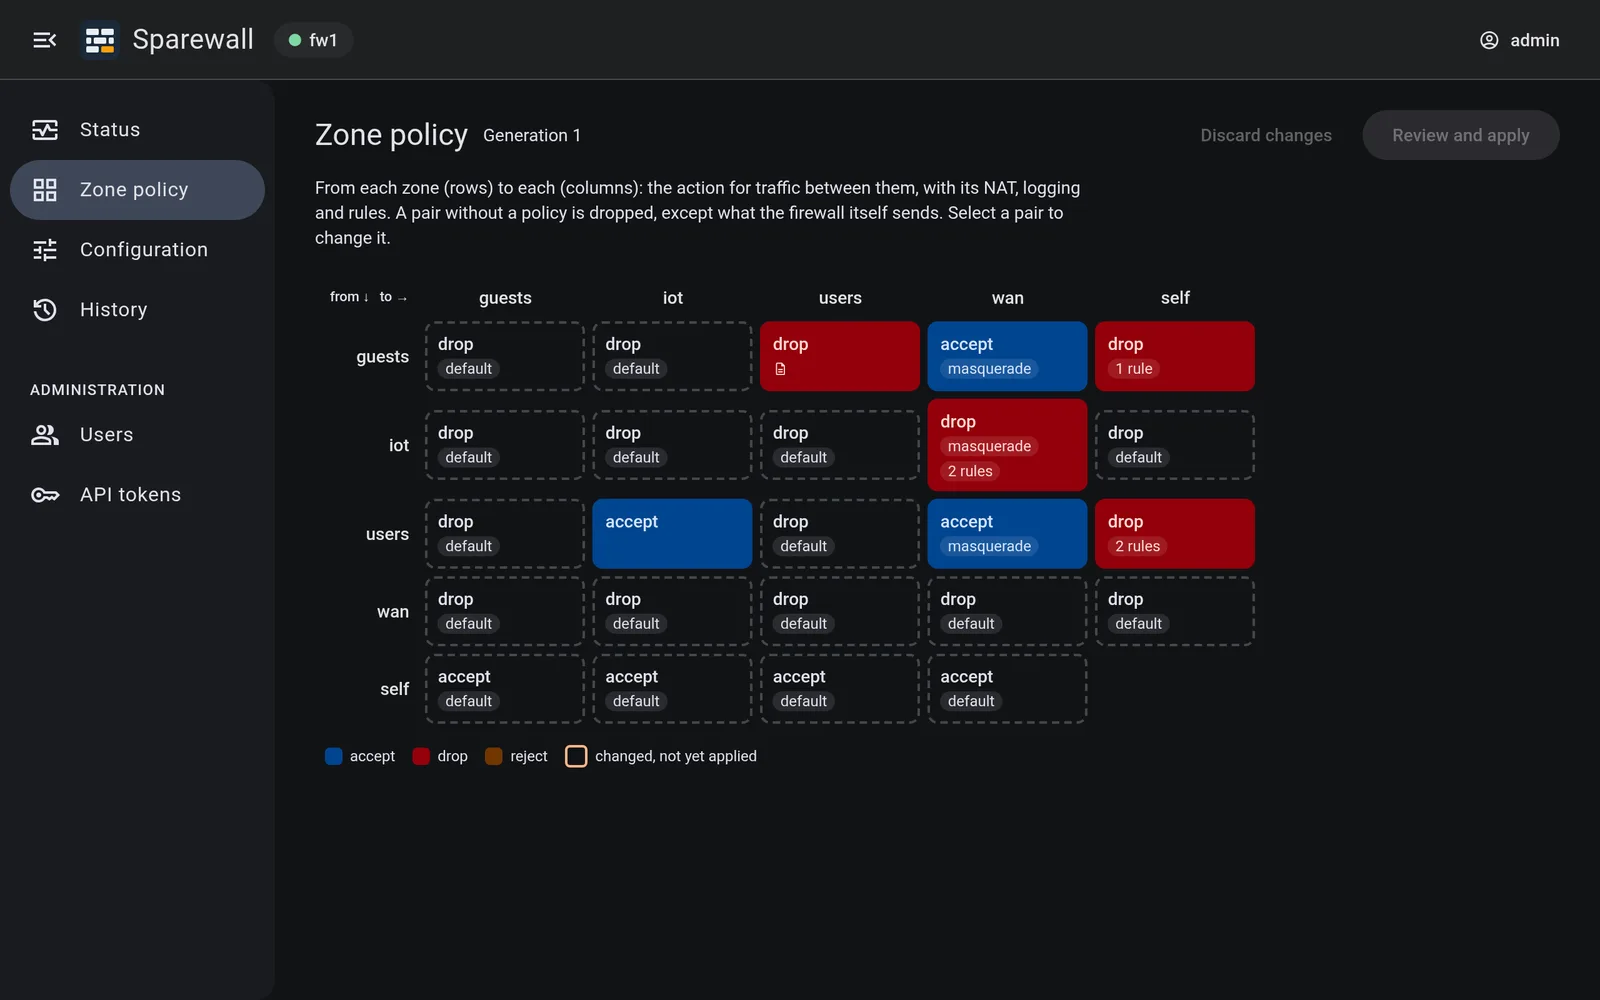
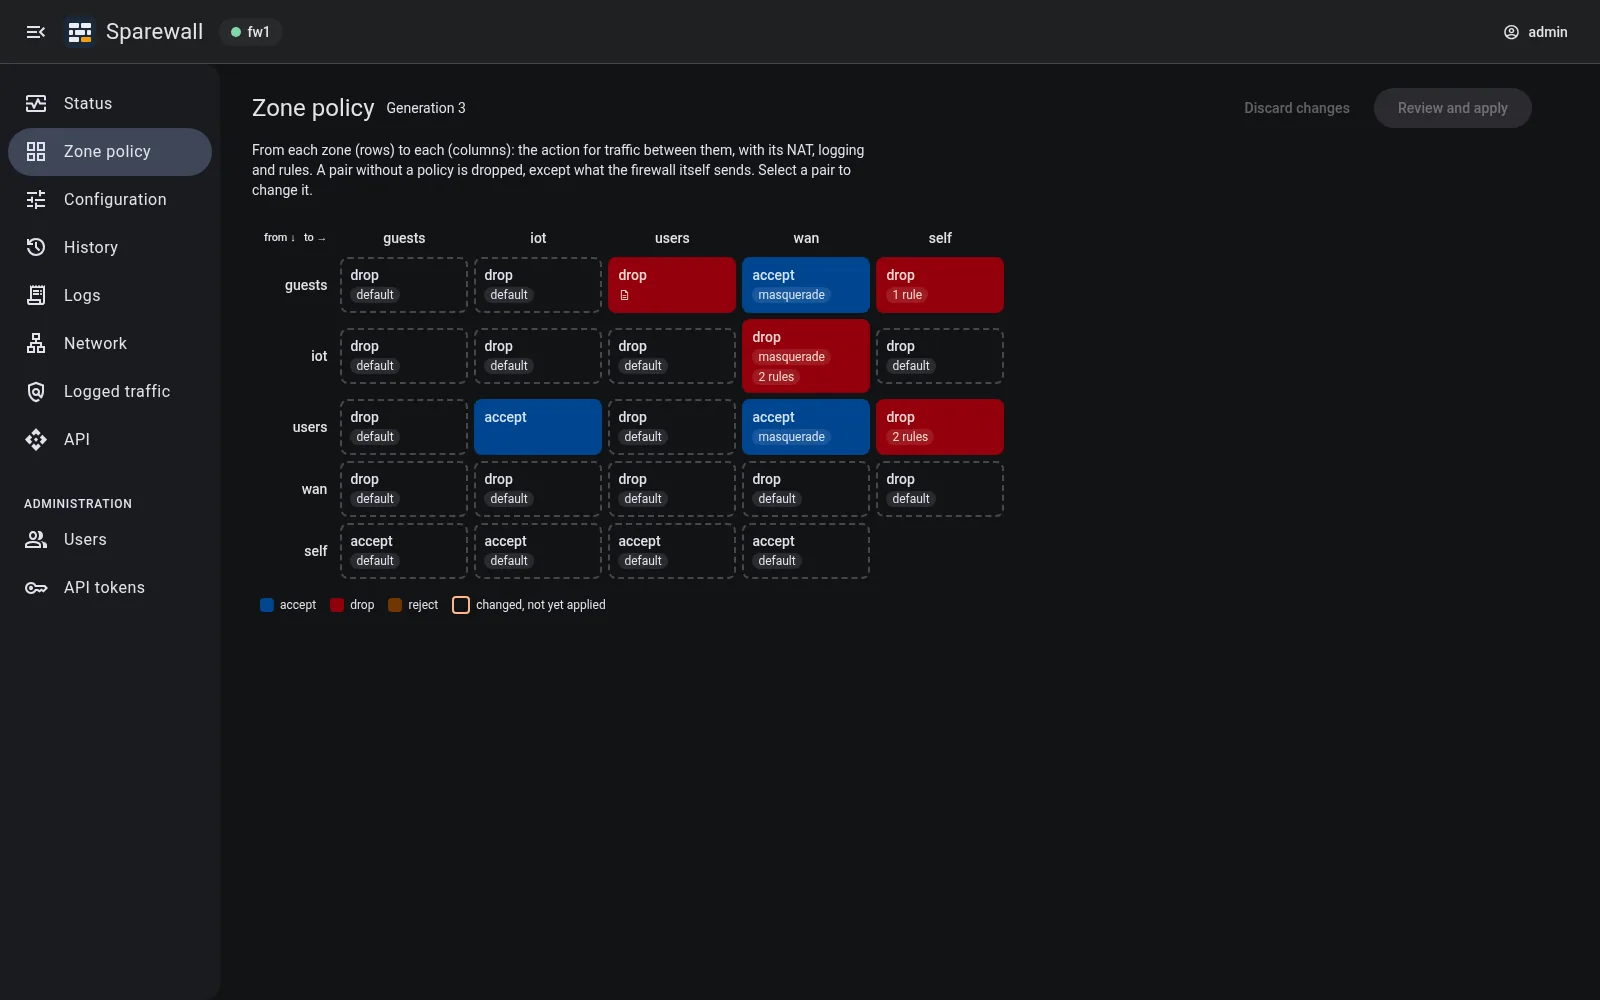
Retake the web UI screenshots from a 0.7.0 demo
The screenshots predated 0.4.0. Retake the zone policy, status and
configuration pages from the demo node on 0.7.0, and add the network
page's tools and the history page. The status page now shows its charts
of the last hour, and the configuration page its search.

diff --git a/index.html b/index.html
@@ -180,16 +180,30 @@
           <figure class="shot">
             <picture>
               <source srcset="assets/screenshots/status-dark.webp" media="(prefers-color-scheme: dark)">
-              <img src="assets/screenshots/status-light.webp" width="1600" height="1000" loading="lazy" alt="The status page: the node is healthy, with all six checks passing, its links up, and its connection count.">
+              <img src="assets/screenshots/status-light.webp" width="1600" height="1000" loading="lazy" alt="The status page: the node's links and connection count, above charts of the last hour's traffic in and out, CPU and memory, connection tracking and rule hits.">
             </picture>
-            <figcaption><strong>Status.</strong> Health, links and connections as they change, and the history to roll back from.</figcaption>
+            <figcaption><strong>Status.</strong> Health, links and connections as they change, with charts of the last hour, day or week.</figcaption>
+          </figure>
+          <figure class="shot">
+            <picture>
+              <source srcset="assets/screenshots/network-dark.webp" media="(prefers-color-scheme: dark)">
+              <img src="assets/screenshots/network-light.webp" width="1600" height="1000" loading="lazy" alt="The network page's Tools tab: a DNS lookup of sparewall.org from the node, with its answer.">
+            </picture>
+            <figcaption><strong>Network.</strong> Neighbours and routes, ping, traceroute and DNS lookups from the node, and packet captures.</figcaption>
           </figure>
           <figure class="shot">
             <picture>
               <source srcset="assets/screenshots/config-dark.webp" media="(prefers-color-scheme: dark)">
-              <img src="assets/screenshots/config-light.webp" width="1600" height="1000" loading="lazy" alt="The configuration page: a sidebar of sections, with a search box, and the networks section open.">
+              <img src="assets/screenshots/config-light.webp" width="1600" height="1000" loading="lazy" alt="The configuration page: a search for dhcp lists every matching setting, beside the networks section.">
             </picture>
             <figcaption><strong>Configuration.</strong> A form built from the document's schema, with a search over every setting. Review the node's own dry run, then apply with a window to confirm in.</figcaption>
+          </figure>
+          <figure class="shot">
+            <picture>
+              <source srcset="assets/screenshots/history-dark.webp" media="(prefers-color-scheme: dark)">
+              <img src="assets/screenshots/history-light.webp" width="1600" height="1000" loading="lazy" alt="The history page: each generation applied, when and by whom, with its changes and a button to roll back to it.">
+            </picture>
+            <figcaption><strong>History.</strong> Every generation applied, who applied it and what changed, and the one to roll back to.</figcaption>
           </figure>
         </div>
         <ul class="checks">
